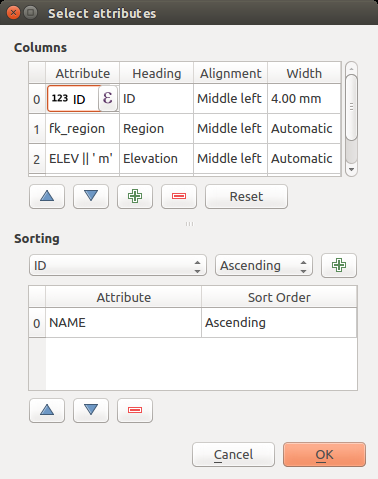
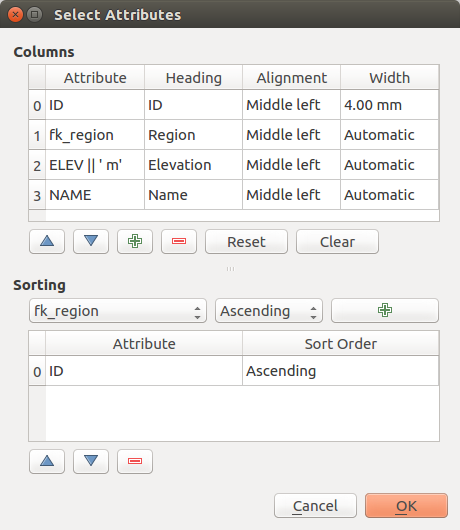
Fields in Print composer attribute item can be cleared
credits to @Drewfore

diff --git a/source/docs/user_manual/print_composer/composer_items/composer_attribute_table.rst b/source/docs/user_manual/print_composer/composer_items/composer_attribute_table.rst
@@ -95,27 +95,34 @@ following functionalities (see figure_composer_table_ppt_):
 
   In the :guilabel:`Columns` section you can:
 
-  * Remove an attribute, just select an attribute row by clicking anywhere in the row
-    and press the minus button to remove the selected attribute.
-  * Add a new attribute use the plus button. At the end a new empty row appears and you can
-    select empty cell of the column :guilabel:`Attribute`. You can select a field attribute from
-    the list or you can select to build a new attribute using a regular expression
-    (|expression| button). Of course you can modify every already existing attribute
-    by means of a regular expression.
-  * Use the up and down arrows to change the order of the attributes in the table.
-  * Select a cell in the Headings column and, to change the heading, just type in a new name.
-  * set a precise Alignment (mixing vertical and horizontal alignment options) for each column.
-  * Select a cell in the Width column and change it from Automatic to a width in mm, just
-    type a number. When you want to change it back to Automatic, use the cross.
-  * The **[Reset]** button can always be used to restore it to the original attribute settings.
+  * Move attributes up or down the list by selecting the rows and then using the
+    the |arrowUp| and |arrowDown| buttons to shift the rows. Multiple rows can
+    be selected and moved at any one time.
+  * Add an attribute with the |signPlus| button. This will add an empty row at
+    the bottom of the table where you can select a field to be the attribute
+    value or create an attribute via a regular expression.
+  * Remove an attribute with the |signMinus| button. Multiple rows can be
+    selected and removed at any one time.
+  * Reset the attribute table back to its default state with the **[Reset]” button.
+  * Clear the table using the **[Clear]** button. This is useful when you have a
+    large table but only want to show a small number of attributes. Instead of
+    manually removing each row, it may be quicker to clear the table and add
+    the rows needed.
+  * Cell headings can be altered by adding the custom text in the :guilabel:`Heading` column.
+  * Cell alignment can be managed with the :guilabel:`Alignment` column which will
+    dictate the texts position within the table cell.
+  * Cell width can be manually managed by adding custom values to the :guilabel:`width` column.
 
   In the :guilabel:`Sorting` section you can:
 
-  * Add an attribute to sort the table with. Select an attribute and set the sorting order
-    to 'Ascending' or 'Descending' and press the plus button. A new line is added to the sort order list.
-  * select a row in the list and use the up and down button to change the sort priority on attribute level.
-    Selecting a cell in the Sort Order column helps you change the sorting order of the attribute field.
-  * use the minus button to remove an attribute from the sort order list.
+  * Add an attribute to sort the table with. Select an attribute and set the
+    sorting order to 'Ascending' or 'Descending' and press the |signPlus| button.
+    A new line is added to the sort order list.
+  * select a row in the list and use the |arrowUp| and |arrowDown| buttons to
+    change the sort priority on attribute level. Selecting a cell in the
+    :guilabel:`Sort Order` column helps you change the sorting order of the
+    attribute field.
+  * use the |signMinus| button to remove an attribute from the sort order list.
 
 
 Feature filtering
